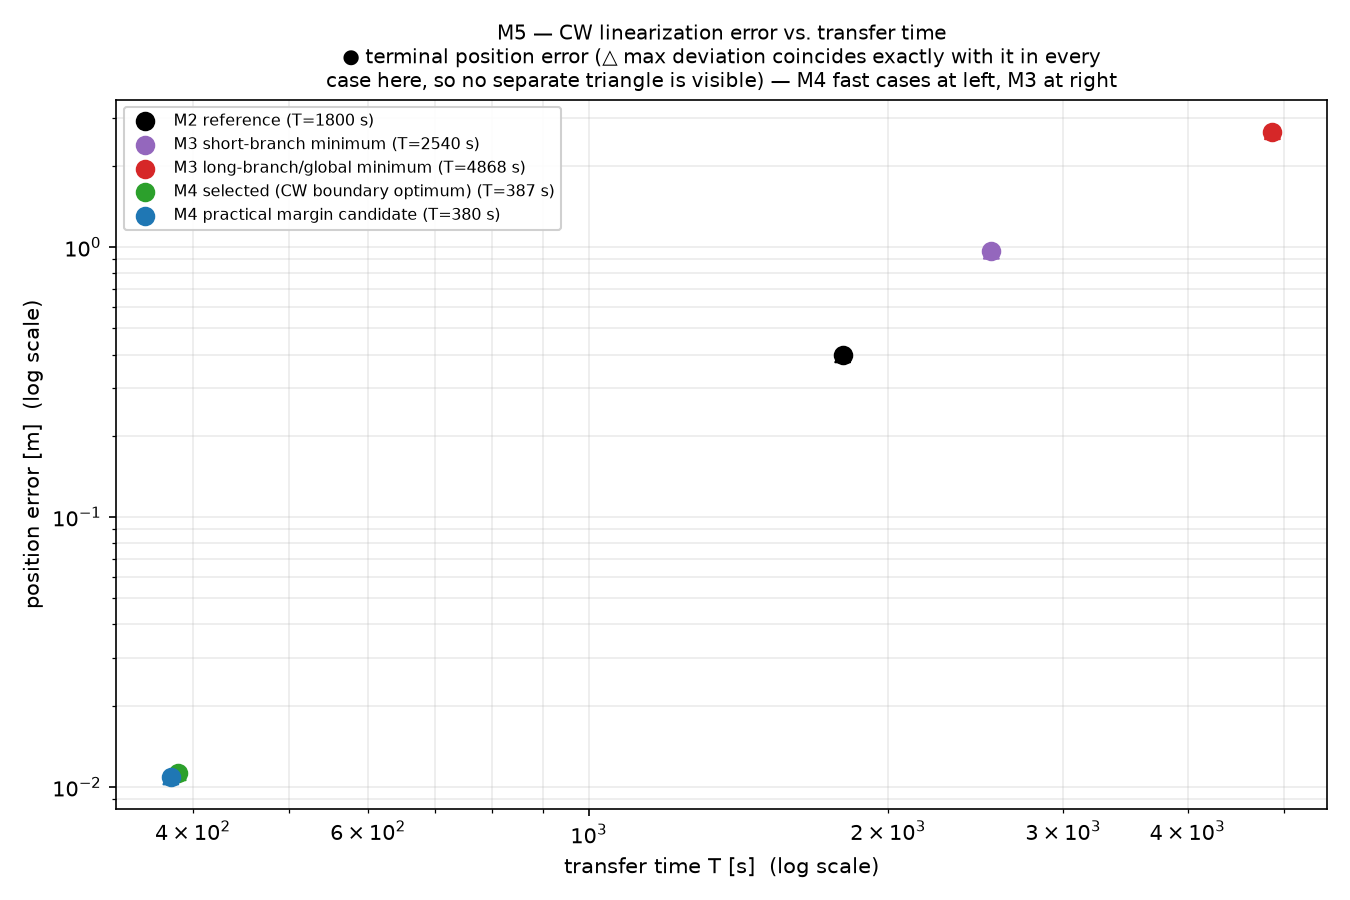
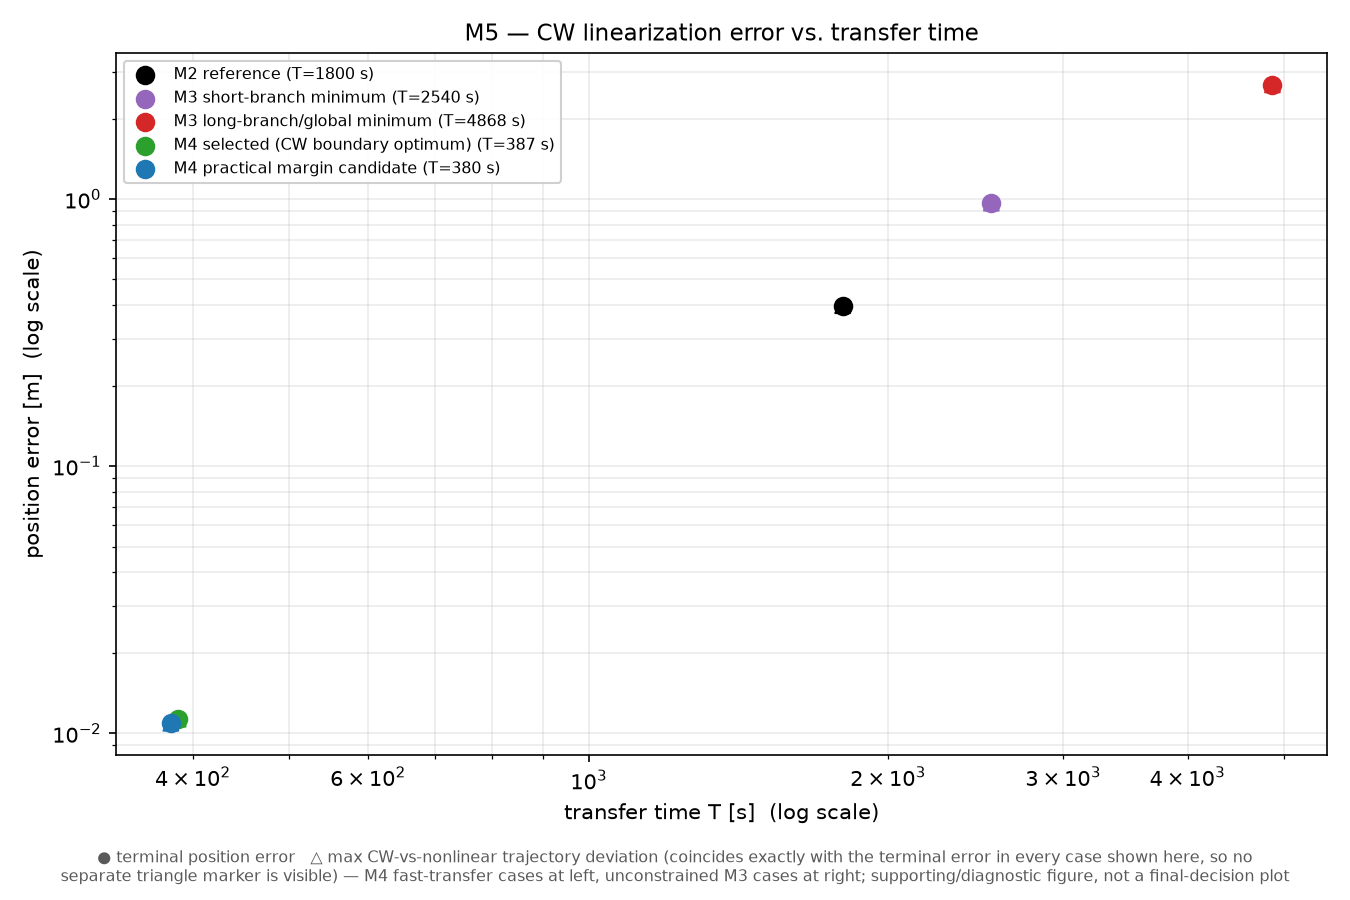
Final portfolio-figure polish pass (presentation only)
Presentation-only changes. No physics, solver logic, constraints,
thresholds, numerical results, CSV data, selected transfer, or
authoritative conclusions were altered. All 151 tests pass before and
after (pytest -W error); no src/ files changed.

- m5_cw_error_vs_transfer_time.png: simplified the overloaded main title
  to "M5 - CW linearization error vs. transfer time"; moved the
  explanation (terminal position error and max trajectory deviation
  coincide exactly in every case shown, plus the M4-fast/M3-unconstrained
  grouping note) into a smaller caption below the plot instead of a
  three-line title. All plotted numerical data unchanged -- regenerating
  reproduced the identical dv_total, CW margin, and nonlinear margin
  values printed to stdout.

- README.md: established the three principal portfolio figures
  explicitly (m4_constrained_dv_vs_transfer_time.png,
  m5_cw_vs_nonlinear_trajectory.png, m5_local_robustness_trade.png) with
  the M3-finds-optimum -> M4-invalidates-it -> M5-validates-and-selects
  narrative spelled out and each figure embedded inline at the point in
  that narrative where it belongs (sections 3 and 6), rather than only
  in a repository-structure appendix. Reclassified the remaining seven
  figures (m2_representative_transfer, m3_dv_vs_transfer_time,
  m3_approach_trajectory_comparison, m3_conditioning_vs_transfer_time,
  m4_approach_geometry, m4_constraint_margin_vs_transfer_time,
[…]

diff --git a/scripts/m5_nonlinear_validation.py b/scripts/m5_nonlinear_validation.py
@@ -292,16 +292,21 @@ def main() -> None:
     ax2.set_yscale("log")
     ax2.set_xlabel("transfer time T [s]  (log scale)")
     ax2.set_ylabel("position error [m]  (log scale)")
-    ax2.set_title(
-        "M5 — CW linearization error vs. transfer time\n"
-        "● terminal position error (△ max deviation coincides exactly with it in every\n"
-        "case here, so no separate triangle is visible) — M4 fast cases at left, M3 at right",
-        fontsize=9.5,
-    )
+    ax2.set_title("M5 — CW linearization error vs. transfer time", fontsize=11)
     ax2.legend(loc="upper left", fontsize=7.5, framealpha=0.92)
     ax2.grid(True, which="both", alpha=0.25)
+
+    fig2.tight_layout(rect=(0, 0.06, 1, 1))
+    fig2.text(
+        0.5, 0.015,
+        "● terminal position error   △ max CW-vs-nonlinear trajectory deviation "
+        "(coincides exactly with the terminal error in every case shown here, so no\n"
+        "separate triangle marker is visible) — M4 fast-transfer cases at left, "
+        "unconstrained M3 cases at right; supporting/diagnostic figure, not a final-decision plot",
+        ha="center", va="bottom", fontsize=7.5, color="0.35",
+    )
+
     fig2_path = FIGURES_DIR / "m5_cw_error_vs_transfer_time.png"
-    fig2.tight_layout()
     fig2.savefig(fig2_path, dpi=150)
     print(f"Wrote {fig2_path}")
 

diff --git a/README.md b/README.md
@@ -44,6 +44,13 @@ corridor, *and* overshoots past the target along-track position before curving b
 a real safety problem the pure-Δv trade could not see, because it only ever checked
 the two trajectory endpoints, never the continuous path.
 
+The figure below makes this concrete: the M3 unconstrained minimum (✕ marker, far
+right) and the M2 reference (●) are both geometry-rejected (red), and essentially the
+entire unconstrained trade space is rejected — only a narrow band of fast transfers
+(green, left edge) remains geometrically feasible at all.
+
+![Geometric constraints reject the unconstrained M3 minimum and force a fast transfer](figures/m4_constrained_dv_vs_transfer_time.png)
+
 ## 4. Why the CW-only constrained optimum was superseded
 
 Once geometry constraints were applied (M4), the cheapest transfer that still passed
@@ -169,34 +176,45 @@ library versions (`DESIGN.md` §16.5).
 
 ### Figure hierarchy
 
-**Primary (final recommendation):**
-1. [`m5_local_robustness_trade.png`](figures/m5_local_robustness_trade.png) — the
-   headline Δv-vs-margin trade that selected T=380 s
-2. [`m5_cw_vs_nonlinear_trajectory.png`](figures/m5_cw_vs_nonlinear_trajectory.png) —
-   CW vs. nonlinear validation of the recommended transfer
+**Three principal portfolio figures — read together, they tell the whole story:**
 
-**Supporting (engineering history — superseded results, clearly labeled as such in
-`DESIGN.md`):**
+1. [`m3_dv_vs_transfer_time.png`](figures/m3_dv_vs_transfer_time.png) *(cited here
+   for the narrative; classified as supporting/history below — its own optimum is
+   superseded)* **finds the unconstrained low-Δv solution** (T≈4868 s, ≈163.5 mm/s).
+2. [`m4_constrained_dv_vs_transfer_time.png`](figures/m4_constrained_dv_vs_transfer_time.png)
+   **shows that geometric constraints invalidate that optimum** — the keep-out
+   sphere and approach corridor reject essentially the entire unconstrained trade
+   space and force a fast transfer (T≲387 s) instead.
+3. [`m5_cw_vs_nonlinear_trajectory.png`](figures/m5_cw_vs_nonlinear_trajectory.png) +
+   [`m5_local_robustness_trade.png`](figures/m5_local_robustness_trade.png)
+   **independently check the CW-constrained result against nonlinear two-body
+   propagation and select T=380 s for robustness**, rather than the M4 boundary
+   optimum (T≈386.6 s) that sits at essentially zero active-constraint margin.
 
-3. [`m4_constrained_dv_vs_transfer_time.png`](figures/m4_constrained_dv_vs_transfer_time.png) —
-   why only fast transfers are geometrically feasible at all
-4. [`m3_dv_vs_transfer_time.png`](figures/m3_dv_vs_transfer_time.png) — the
-   unconstrained trade that motivated the geometry constraints
-5. [`m5_cw_error_vs_transfer_time.png`](figures/m5_cw_error_vs_transfer_time.png) —
-   CW linearization error scaling
-6. [`m4_approach_geometry.png`](figures/m4_approach_geometry.png) — M4's own selected
-   trajectory vs. keep-out sphere/corridor
-7. [`m4_constraint_margin_vs_transfer_time.png`](figures/m4_constraint_margin_vs_transfer_time.png)
-8. [`m3_conditioning_vs_transfer_time.png`](figures/m3_conditioning_vs_transfer_time.png) —
-   Φrv singularity conditioning near P/2
+(All three are shown inline above, in §3 and §6, at the point in the narrative where
+each is most relevant — not repeated here to keep this reference list compact.)
 
-**Diagnostic / milestone history:**
+**Supporting / diagnostic / milestone history** (real engineering history, kept in
+the repository and fully documented in `DESIGN.md`, but **not** final-decision
+figures — each is superseded or subordinate to the three above):
 
-- [`m2_representative_transfer.png`](figures/m2_representative_transfer.png) — first
-  verified CW trajectory (T=1800 s reference, used throughout as a fixed comparison
-  point)
+- [`m3_dv_vs_transfer_time.png`](figures/m3_dv_vs_transfer_time.png) — the
+  unconstrained trade itself; its own T≈4868 s optimum is **superseded** once
+  geometry constraints are applied (§3 above)
 - [`m3_approach_trajectory_comparison.png`](figures/m3_approach_trajectory_comparison.png) —
   geometric path comparison across the unconstrained trade
+- [`m3_conditioning_vs_transfer_time.png`](figures/m3_conditioning_vs_transfer_time.png) —
+  Φrv singularity conditioning near P/2
+- [`m4_approach_geometry.png`](figures/m4_approach_geometry.png) — M4's own selected
+  trajectory (T≈386.6 s) vs. keep-out sphere/corridor; that transfer is itself
+  **superseded** by the M5 T=380 s recommendation (§4 above)
+- [`m4_constraint_margin_vs_transfer_time.png`](figures/m4_constraint_margin_vs_transfer_time.png) —
+  keep-out clearance margin vs. transfer time
+- [`m5_cw_error_vs_transfer_time.png`](figures/m5_cw_error_vs_transfer_time.png) —
+  CW linearization error scaling across all representative cases
+- [`m2_representative_transfer.png`](figures/m2_representative_transfer.png) — first
+  verified CW trajectory (T=1800 s reference, used throughout as a fixed comparison
+  point, never claimed optimal)
 
 ## 11. What this project demonstrates
 
